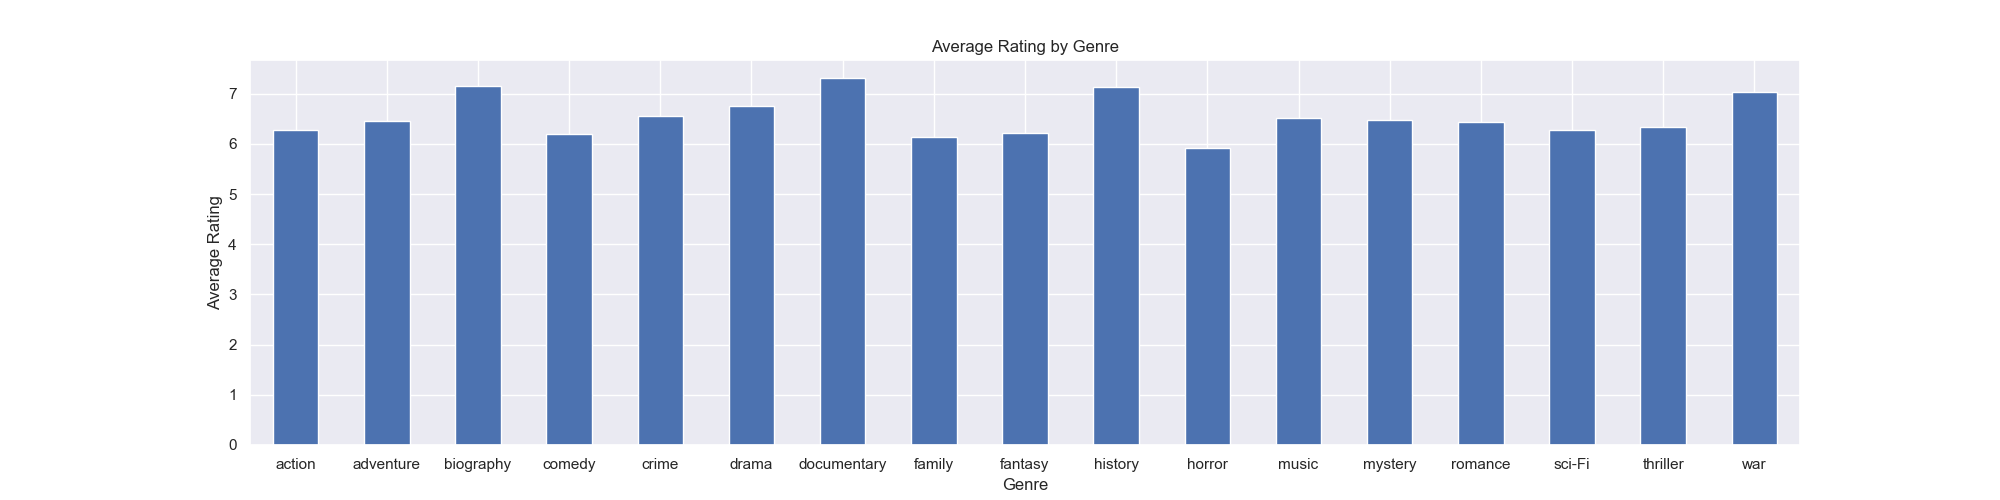
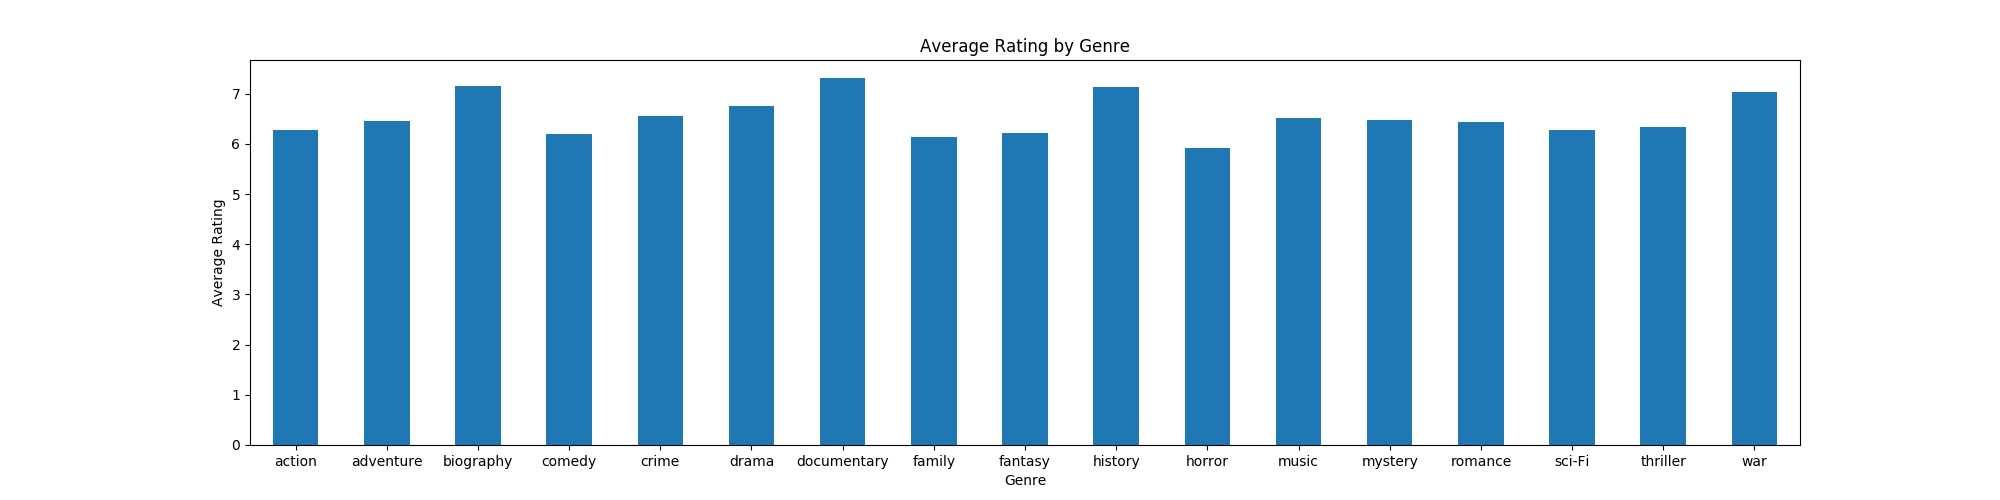
added bar chart comparing models

Changed region(s): [[0.093, 0.15, 0.899, 0.99], [0.465, 0.06, 0.558, 0.12]]

diff --git a/movie-data/ML.py b/movie-data/ML.py
@@ -109,18 +109,10 @@ n=list(range(5,16))
 
 
 #Used to decide what depth to use for trees
-trees(5)
-trees(6)
-trees(7)
-trees(8) #n = 8 gets the highest score
-trees(9)
-trees(10)
-trees(11)
-trees(12)
-trees(13)
-trees(14)
-trees(15)
+for i in range(5,16):
+    trees(i)
 
+plt.figure(figsize=(10,5))
 plt.title('Depth of Tree vs. Model Accuracy')
 plt.xlabel('Depth (n)')
 plt.ylabel('Accuracy of Model')
@@ -129,20 +121,6 @@ plt.plot(n, y1)
 plt.plot(n, y2)
 plt.legend(['Decision tree', 'Random forest'],loc='lower right')
 plt.savefig("model_accuracy.png")
-#decision tree
-#random tree classifier
-# n=8: score=0.40206
-# n=8: score=0.42719
-# n=9: score=0.38531
-# n=9: score=0.42075
-# n=10: score=0.38853
-# n=10: score=0.41044
-# n=12: score=0.37371
-# n=12: score=0.41559
-# n=15: score=0.35245
-# n=15: score=0.41302
-# n=20: score=0.33956
-# n=20: score=0.41881
 
 
 Boosting_model = GradientBoostingClassifier(n_estimators = 100, max_depth = 3, min_samples_leaf = 5)
@@ -152,17 +130,35 @@ Neural_model = MLPClassifier(solver='lbfgs', hidden_layer_sizes=(2,2), activatio
 
 # print("Using list of genres as unique genres\n")
 
-# rand_forest_model.fit(X_train, y_train)
+
+
+rand_forest_model.fit(X_train, y_train)
 # print("Random forest classifier: ", rand_forest_model.score(X_valid, y_valid)) # 0.42461340206185566
 
-# voting_model.fit(X_train, y_train)
+voting_model.fit(X_train, y_train)
 # print("Voting classifier: ", voting_model.score(X_valid, y_valid)) # 0.3943298969072165
 
-# Boosting_model.fit(X_train, y_train)
+Boosting_model.fit(X_train, y_train)
 # print("Boosted model: ", Boosting_model.score(X_valid, y_valid)) # 0.4220360824742268
 
-# Neural_model.fit(X_train, y_train)
+Neural_model.fit(X_train, y_train)
 # print("Neural network: ", Neural_model.score(X_valid, y_valid)) # 0.33698453608247425
+
+# scores = pd.DataFrame()
+
+scores = pd.Series([rand_forest_model.score(X_valid, y_valid), voting_model.score(X_valid, y_valid), Boosting_model.score(X_valid, y_valid), Neural_model.score(X_valid, y_valid)])
+
+labels = ["Random Forest", "Voting Classifier", "Boosted Model", "Neural Network"]
+
+plt.figure(figsize=(20,5))
+plt.ylim(0.3,0.5)
+plt.xlabel('Model')
+#have to fix xtick labels
+#plt.xticks([0,1,2,3], ("Random Forest", "Voting Classifier", "Boosted Model", "Neural Network"))
+plt.ylabel('Accuracy Score')
+plt.title('Model vs. Accuracy Score')
+scores.plot.bar(rot = 1)
+#plt.show()
 
 # print()
 # print('Using a single random genre from a movies list of genres\n')

diff --git a/movie-data/dataplot.py b/movie-data/dataplot.py
@@ -2,11 +2,11 @@ import pandas as pd
 import matplotlib.pyplot as plt
 import sys
 from scipy import stats
-import seaborn as sns
+#import seaborn as sns
 from pylab import *
 
 data = pd.read_csv(sys.argv[1])
-sns.set()
+#sns.set()
 
 title = data['title']
 director = data['director']
